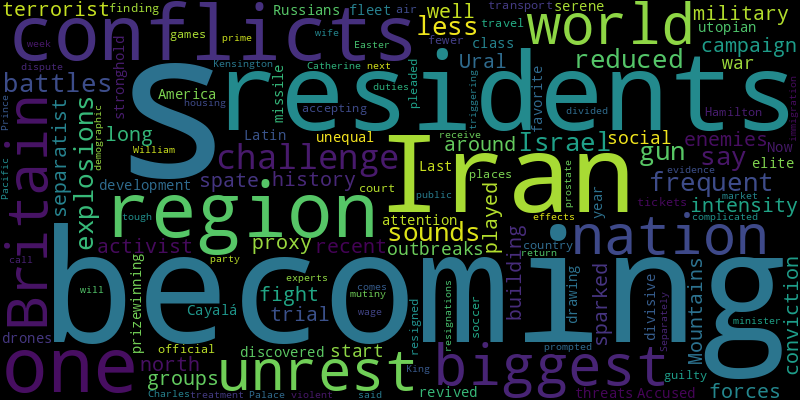
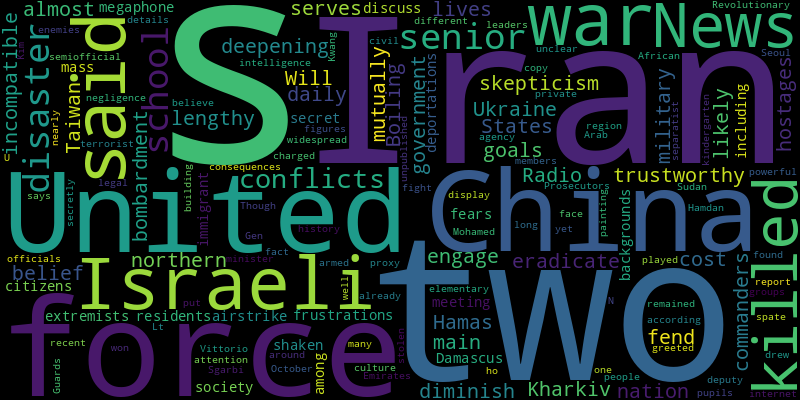
chore(bot): 🙈 auto commit

diff --git a/README.md b/README.md
@@ -2,41 +2,41 @@
 Auto RSS New York Times and Generate Word Cloud
 
 ## New York Times Global News
-* The sounds of gun battles and explosions are becoming less frequent, residents say, after Israel reduced the intensity of its military campaign in the north.
+* Will deepening skepticism about the United States as a trustworthy nation diminish Taiwan’s belief that it could fend off China?
+* Some Israeli commanders said the government’s two main goals were mutually incompatible. To eradicate Hamas, the military would have to engage in a lengthy war that would most likely cost the hostages’ lives.
+* Kharkiv, in northern Ukraine, is under almost daily bombardment. Radio Boiling Over serves as a megaphone for residents’ fears and frustrations.
+* News of a secret meeting among extremists to discuss mass deportations, including of citizens from immigrant backgrounds, has shaken the society.
+* Iran said an Israeli airstrike on Damascus killed two senior intelligence figures in Iran’s powerful Revolutionary Guards and two other members of the force, according to a semiofficial news agency.
+* Prosecutors believe a painting the deputy culture minister, Vittorio Sgarbi, put on display in 2021 was in fact stolen in 2013. He says it’s a different copy.
+* Kim Kwang-ho, charged with negligence, is one of the most senior officials to face legal consequences for the October 2022 disaster that killed nearly 160 people in Seoul.
+* The private school is for kindergarten and elementary school pupils. Though many details of the disaster remained unclear, it drew widespread attention on China’s internet.
 * Iran’s long history of building up proxy forces that fight its enemies around the region, as well as its conflicts with separatist and terrorist groups, have played into a spate of recent conflicts.
-* The trial and conviction of an activist in the Ural Mountains region sparked one of the biggest outbreaks of social unrest since the start of the war.
-* The development of Cayalá is utopian, serene and prizewinning. As an elite stronghold in one of Latin America’s most unequal nations, it is also divisive.
-* Last year, the world discovered that Iran’s drones were becoming world-class threats and a favorite of the Russians. Now, its revived missile fleet is drawing attention, too.
-* Accused of accepting tickets to “Hamilton,” air travel and soccer games in Britain, the transport official resigned before he pleaded not guilty in court.
-* In a country of fewer than 400,000, finding places for 3,700 residents is complicated by a tough housing market.
-* A wage dispute prompted violent unrest in the Pacific nation, which experts call evidence of the effects of its demographic challenges.
-* The biggest challenge to Britain’s prime minister comes from his own divided party, which is triggering resignations and a mutiny over immigration.
-* Kensington Palace said Catherine, the wife of Prince William, would not return to public duties until after Easter. Separately, King Charles will receive prostate treatment next week.
+* Lt. Gen. Mohamed Hamdan was greeted by African leaders as if he had already won Sudan’s civil war. His forces have secretly been armed by the United Arab Emirates, an as-yet unpublished U.N. report found.
 
 ![Global](./global.png)
 ## New York Times United States News
-* In a report, the department blames “cascading failures of leadership, decision-making, tactics, policy and training” in the Texas school shooting that left 21 people dead.
-* Advocates present a united front after disagreements over how far they could go in asking voters to legalize abortion in the state.
-* In a raucous meeting, the board became one of the first in the country to vote for a statement supporting an end to hostilities in the Israel-Hamas war.
-* The judge sent the matter back to Maine’s secretary of state, ordering her to modify, withdraw or confirm her ruling after the Supreme Court rules on a similar case out of Colorado.
-* Snow is likely from the Midwest to the Northeast on Friday as frigid temperatures surge east through Saturday. But warmer weather is on the way.
-* Lawmakers from both parties wrote to Defense Secretary Lloyd J. Austin III on Thursday demanding to know what was being done to safeguard troops’ brains from the blasts caused by their own weapons.
-* As she steps away from surfing, Carissa Moore confronts a question that many people face when they make a change in life: Who am I if I don’t do this anymore?
-* With a tiny margin in the House, right-wing rebels’ defections and Democratic control of the Senate and White House, the G.O.P. has relied on Democrats to head off calamity, sapping its leverage.
-* The debate over immigration in the United States is spilling over into other parts of President Biden’s agenda, particularly the war in Ukraine.
-* Mr. Navarro would be the second Trump official to be sentenced for stonewalling Congress in its Jan. 6 investigation.
+* Protesters demanded action to free hostages, a war cabinet minister criticized the military campaign and the Israeli prime minister publicly ruled out a two-state solution, rebuffing the U.S.
+* The university released its most detailed account of its handling of plagiarism accusations against Claudine Gay, who resigned earlier this month.
+* But the Sarasota Police Department has asked prosecutors to charge the former chairman, Christian Ziegler, with video voyeurism.
+* The Legislature passed a congressional map that creates a second majority-Black district while shielding the state’s most powerful conservatives in Washington from political jeopardy.
+* The old guard of the Republican Party has rallied around Nikki Haley ahead of New Hampshire’s primary, in a long-shot bid to stop the former president’s march to the nomination.
+* The Supreme Court’s ruling intended to remove the consideration of race during the admissions process. So students used their essays to highlight their racial background.
+* For over a century, towns in New England have presented their oldest residents with ceremonial canes. In some places, the honor endures — for those willing to accept it, that is.
+* Donald Trump has often accused former House Speaker Nancy Pelosi of failing to provide adequate security for the Capitol. On Friday, he inexplicably substituted Nikki Haley’s name for Ms. Pelosi’s.
+* The former president said his top rival, Nikki Haley, wasn’t “presidential timber,” after collecting the spirited endorsement of her fellow South Carolinian, Senator Tim Scott.
+* In a social media post, Donald J. Trump appeared to take a stance that went even further than his lawyers have in court about the scope of immunity from prosecution that a president should enjoy.
 
 ![US](./usnews.png)
 ## New York Times Asia News
+* Will deepening skepticism about the United States as a trustworthy nation diminish Taiwan’s belief that it could fend off China?
+* Kim Kwang-ho, charged with negligence, is one of the most senior officials to face legal consequences for the October 2022 disaster that killed nearly 160 people in Seoul.
+* The private school is for kindergarten and elementary school pupils. Though many details of the disaster remained unclear, it drew widespread attention on China’s internet.
+* The SLIM spacecraft made a successful soft landing on the lunar surface, but a problem with its solar panels means it will soon run out of power.
+* Relatives of victims of the 2002 attack are expected to describe their loss to a U.S. military jury sentencing two Malaysian prisoners.
+* An activist received 50 years in prison for sharing TV and film content on social media that violated the country’s law against defaming its monarchy.
 * Tetsuko Kuroyanagi has been one of Japan’s best-known entertainers for seven decades. At 90, she’s still going strong.
 * For two years, Pakistan has struggled with economic and political crises, an increase in militant attacks and souring relations with another neighbor, Afghanistan.
 * People with personal ties to China, on a tour to see Taiwan’s election up close, learned of the island’s path to democracy — messy, violent and, ultimately, inspiring.
 * Also, corruption accusations in Singapore.
-* Also, corruption accusations in Singapore and travel predictions
-* Iran’s long history of building up proxy forces that fight its enemies around the region, as well as its conflicts with separatist and terrorist groups, have played into a spate of recent conflicts.
-* Accused of accepting tickets to “Hamilton,” air travel and soccer games in Britain, the transport official resigned before he pleaded not guilty in court.
-* A wage dispute prompted violent unrest in the Pacific nation, which experts call evidence of the effects of its demographic challenges.
-* The exchange of attacks came as the upheaval sweeping the Middle East threatened to expand.
-* Also, how language affects memory as we age.
 
 ![Asian](./asian.png)
